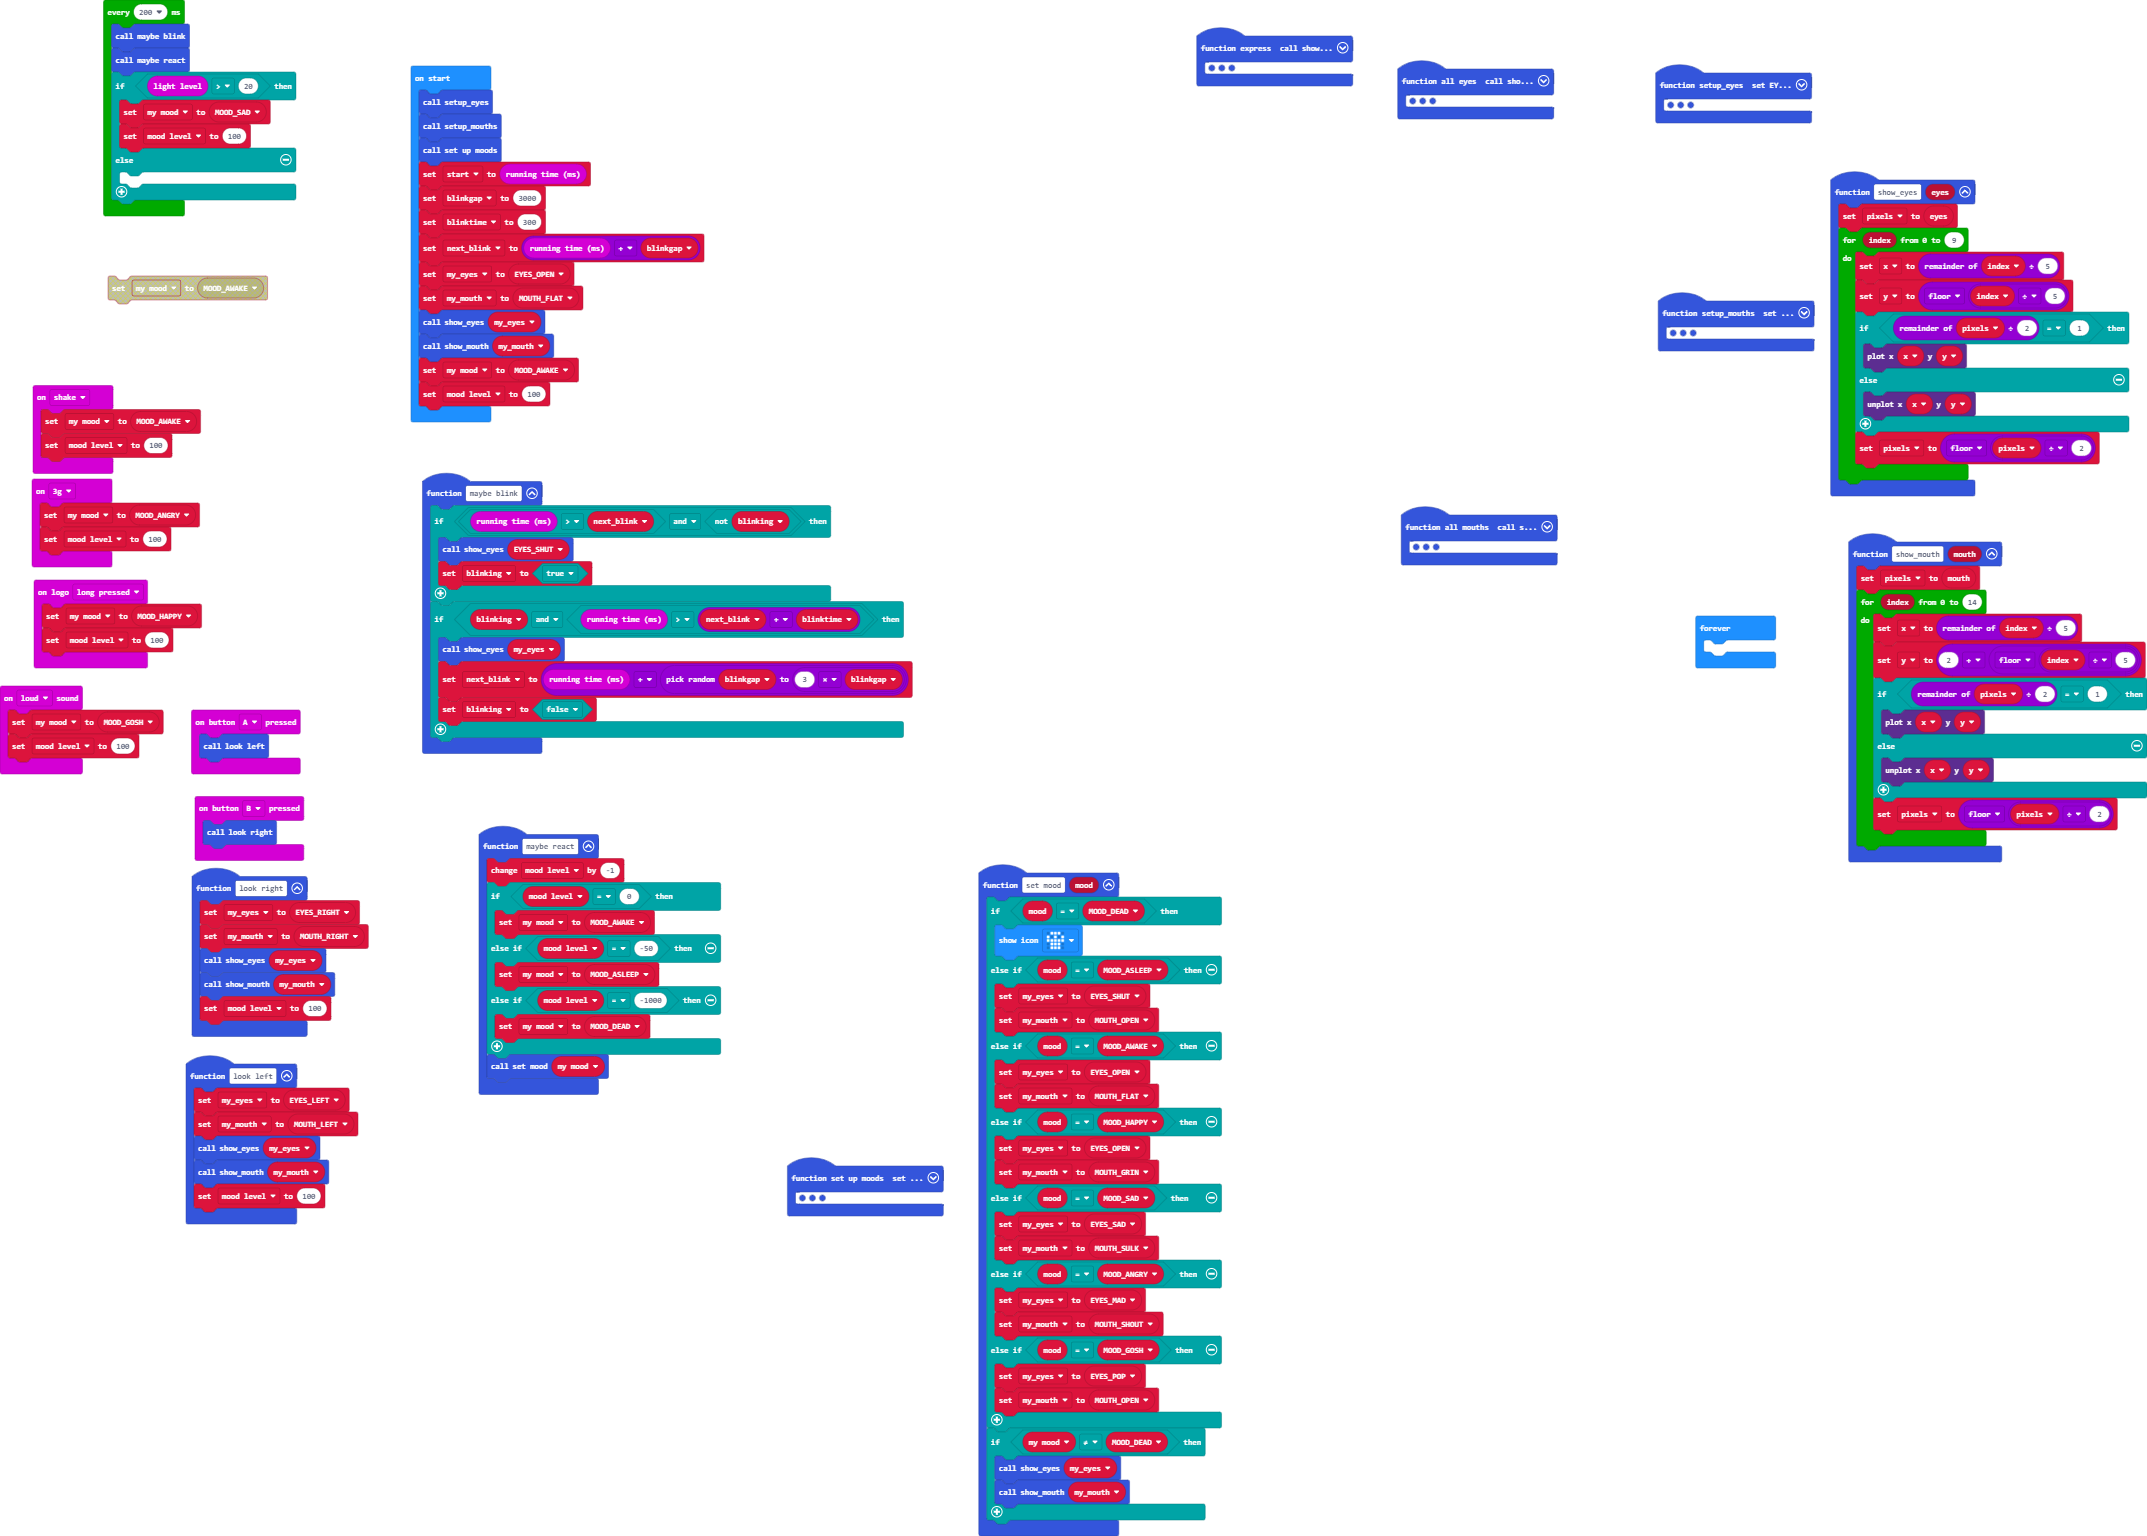
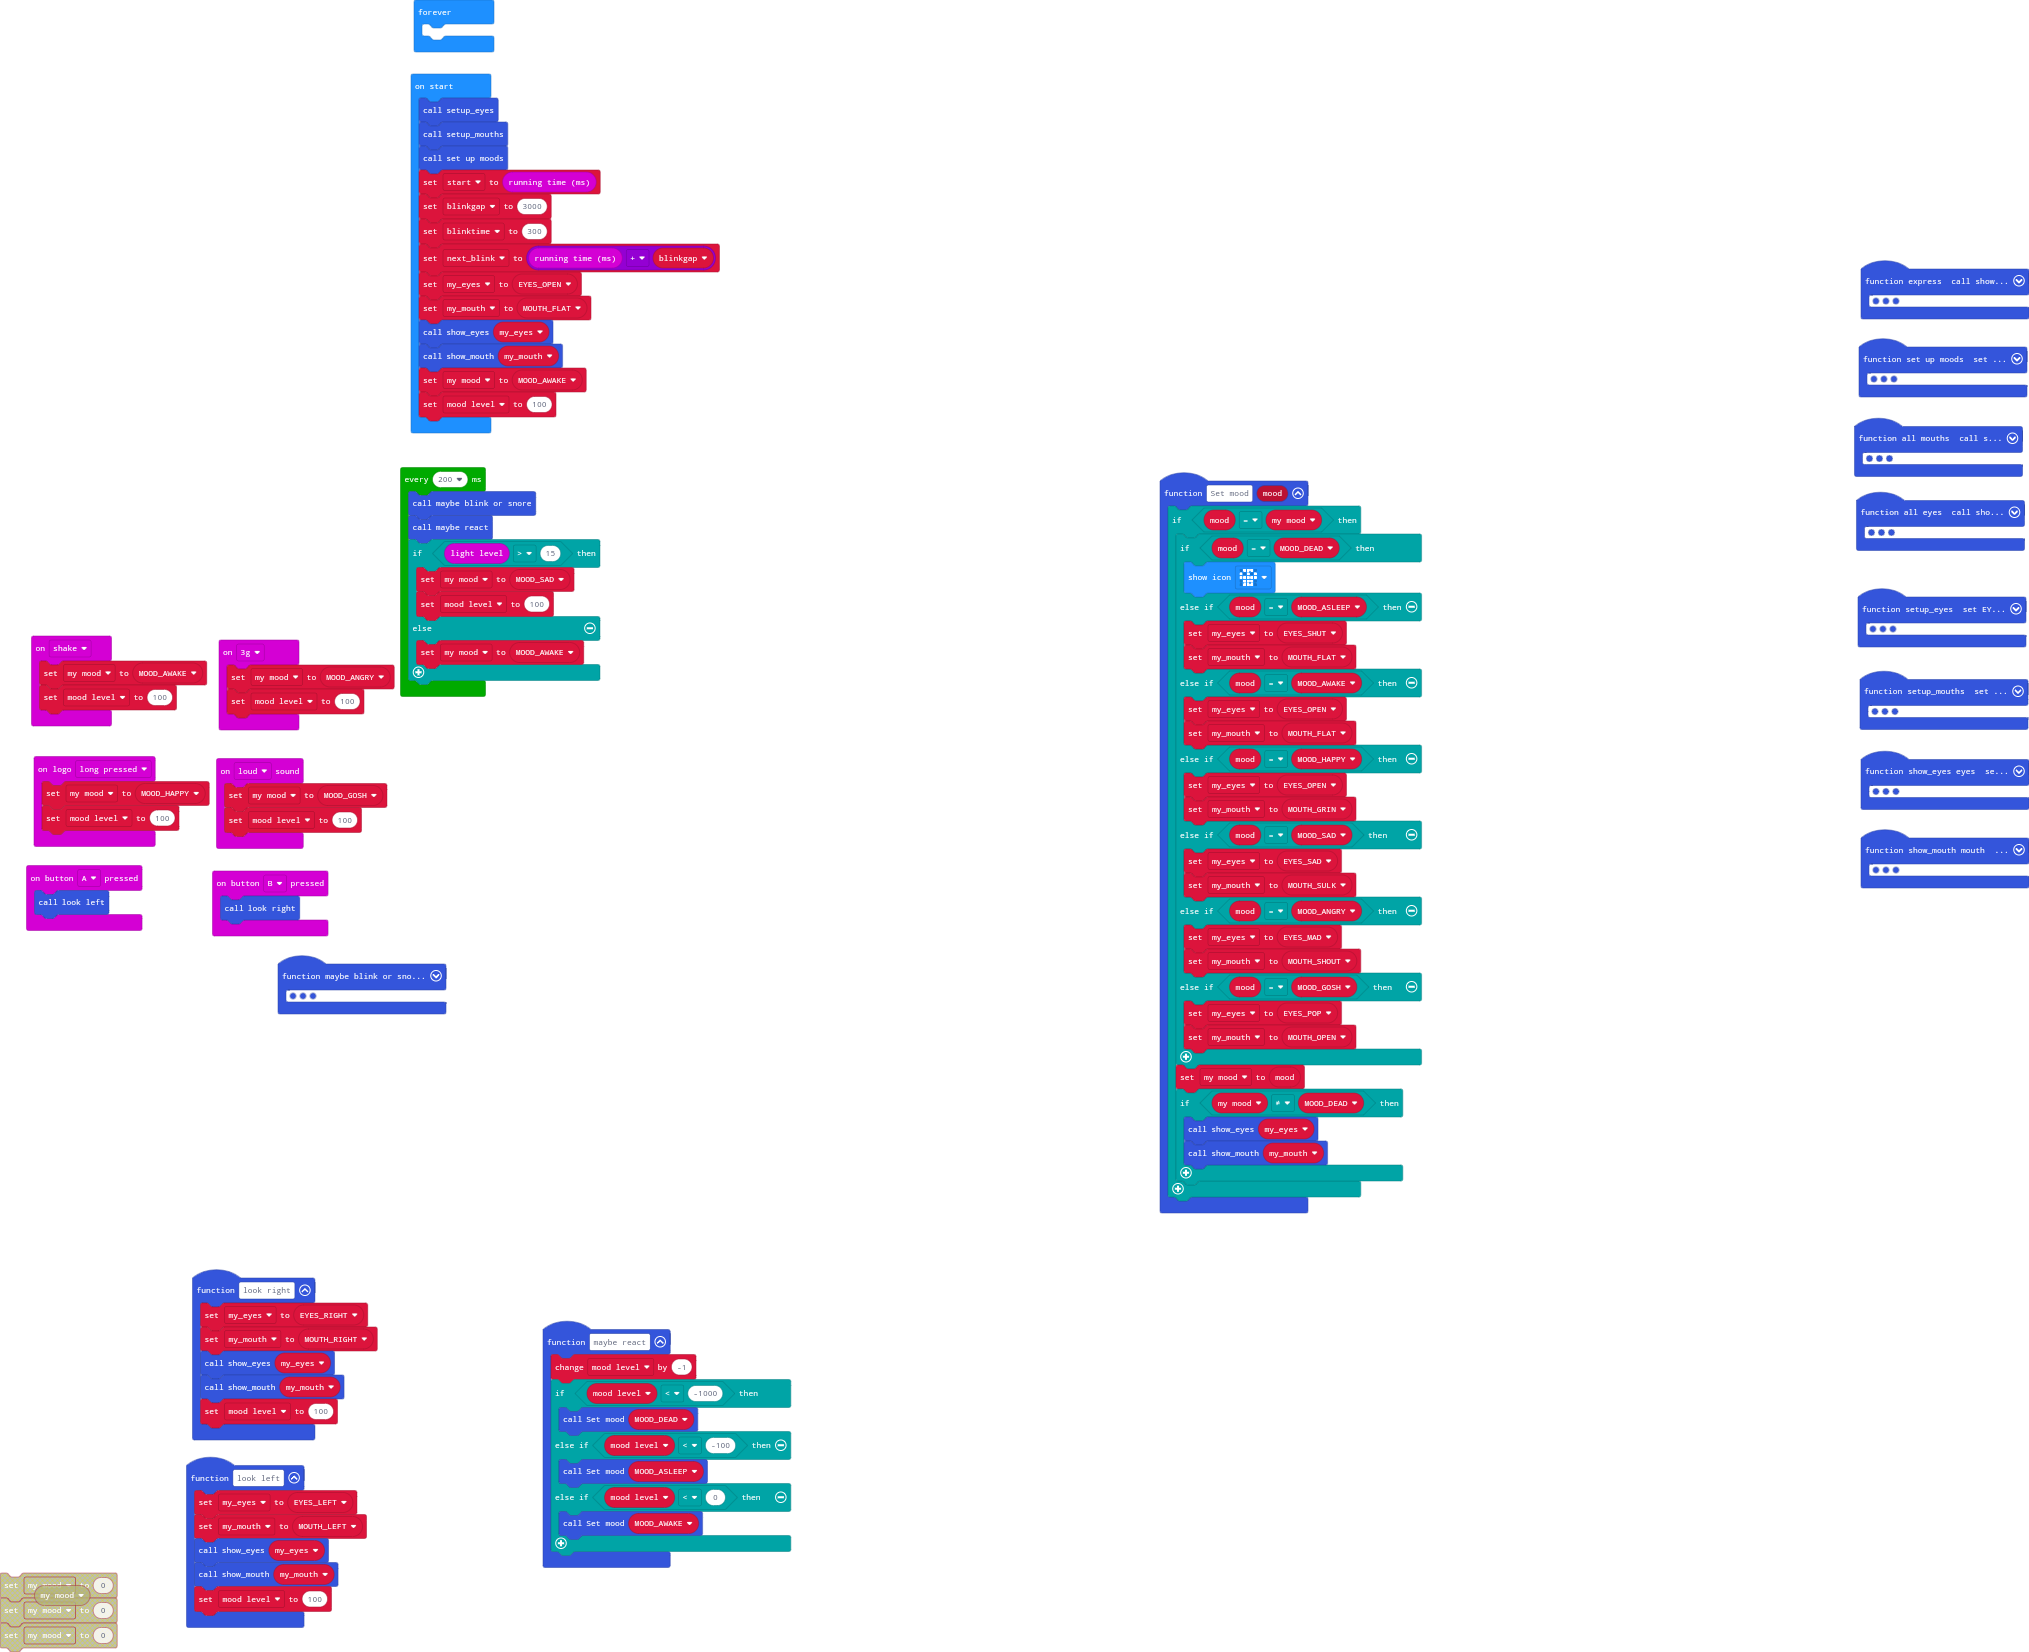
revised

diff --git a/main.ts b/main.ts
@@ -14,33 +14,6 @@ function look_left () {
     show_mouth(my_mouth)
     mood_level = 100
 }
-function set_mood (mood: number) {
-    if (mood == MOOD_DEAD) {
-        basic.showIcon(IconNames.Skull)
-    } else if (mood == MOOD_ASLEEP) {
-        my_eyes = EYES_SHUT
-        my_mouth = MOUTH_OPEN
-    } else if (mood == MOOD_AWAKE) {
-        my_eyes = EYES_OPEN
-        my_mouth = MOUTH_FLAT
-    } else if (mood == MOOD_HAPPY) {
-        my_eyes = EYES_OPEN
-        my_mouth = MOUTH_GRIN
-    } else if (mood == MOOD_SAD) {
-        my_eyes = EYES_SAD
-        my_mouth = MOUTH_SULK
-    } else if (mood == MOOD_ANGRY) {
-        my_eyes = EYES_MAD
-        my_mouth = MOUTH_SHOUT
-    } else if (mood == MOOD_GOSH) {
-        my_eyes = EYES_POP
-        my_mouth = MOUTH_OPEN
-    }
-    if (my_mood != MOOD_DEAD) {
-        show_eyes(my_eyes)
-        show_mouth(my_mouth)
-    }
-}
 function all_mouths () {
     show_eyes(EYES_OPEN)
     show_mouth(MOUTH_FLAT)
@@ -79,17 +52,6 @@ input.onLogoEvent(TouchButtonEvent.LongPressed, function () {
     my_mood = MOOD_HAPPY
     mood_level = 100
 })
-function maybe_blink () {
-    if (input.runningTime() > next_blink && !(blinking)) {
-        show_eyes(EYES_SHUT)
-        blinking = true
-    }
-    if (blinking && input.runningTime() > next_blink + blinktime) {
-        show_eyes(my_eyes)
-        next_blink = input.runningTime() + randint(blinkgap, 3 * blinkgap)
-        blinking = false
-    }
-}
 function look_right () {
     my_eyes = EYES_RIGHT
     my_mouth = MOUTH_RIGHT
@@ -120,6 +82,36 @@ function show_mouth (mouth: number) {
             led.unplot(x, y)
         }
         pixels = Math.floor(pixels / 2)
+    }
+}
+function Set_mood (mood: number) {
+    if (mood == my_mood) {
+        if (mood == MOOD_DEAD) {
+            basic.showIcon(IconNames.Skull)
+        } else if (mood == MOOD_ASLEEP) {
+            my_eyes = EYES_SHUT
+            my_mouth = MOUTH_FLAT
+        } else if (mood == MOOD_AWAKE) {
+            my_eyes = EYES_OPEN
+            my_mouth = MOUTH_FLAT
+        } else if (mood == MOOD_HAPPY) {
+            my_eyes = EYES_OPEN
+            my_mouth = MOUTH_GRIN
+        } else if (mood == MOOD_SAD) {
+            my_eyes = EYES_SAD
+            my_mouth = MOUTH_SULK
+        } else if (mood == MOOD_ANGRY) {
+            my_eyes = EYES_MAD
+            my_mouth = MOUTH_SHOUT
+        } else if (mood == MOOD_GOSH) {
+            my_eyes = EYES_POP
+            my_mouth = MOUTH_OPEN
+        }
+        my_mood = mood
+        if (my_mood != MOOD_DEAD) {
+            show_eyes(my_eyes)
+            show_mouth(my_mouth)
+        }
     }
 }
 input.onSound(DetectedSound.Loud, function () {
@@ -165,16 +157,34 @@ input.onGesture(Gesture.ThreeG, function () {
     my_mood = MOOD_ANGRY
     mood_level = 100
 })
+function maybe_blink_or_snore () {
+    if (input.runningTime() > next_blink && !(blinking)) {
+        if (my_mood == MOOD_ASLEEP) {
+            show_mouth(MOUTH_OPEN)
+        } else {
+            show_eyes(EYES_SHUT)
+        }
+        blinking = true
+    }
+    if (blinking && input.runningTime() > next_blink + blinktime) {
+        if (my_mood == MOOD_ASLEEP) {
+            show_mouth(my_mouth)
+        } else {
+            show_eyes(my_eyes)
+        }
+        next_blink = input.runningTime() + randint(blinkgap, 3 * blinkgap)
+        blinking = false
+    }
+}
 function maybe_react () {
     mood_level += -1
-    if (mood_level == 0) {
-        my_mood = MOOD_AWAKE
-    } else if (mood_level == -50) {
-        my_mood = MOOD_ASLEEP
-    } else if (mood_level == -1000) {
-        my_mood = MOOD_DEAD
+    if (mood_level < -1000) {
+        Set_mood(MOOD_DEAD)
+    } else if (mood_level < -100) {
+        Set_mood(MOOD_ASLEEP)
+    } else if (mood_level < 0) {
+        Set_mood(MOOD_AWAKE)
     }
-    set_mood(my_mood)
 }
 function express () {
     show_eyes(EYES_OPEN)
@@ -202,22 +212,22 @@ function express () {
     basic.pause(1000)
     basic.pause(1000)
 }
-let EYES_RIGHT = 0
 let blinking = false
+let EYES_SHUT = 0
+let EYES_SAD = 0
+let EYES_POP = 0
+let EYES_MAD = 0
+let EYES_RIGHT = 0
 let y = 0
 let x = 0
 let pixels = 0
+let MOUTH_SULK = 0
+let MOUTH_SHOUT = 0
 let MOUTH_RIGHT = 0
+let MOUTH_OPEN = 0
 let MOUTH_OK = 0
 let MOUTH_HMMM = 0
-let EYES_POP = 0
-let MOUTH_SHOUT = 0
-let EYES_MAD = 0
-let MOUTH_SULK = 0
-let EYES_SAD = 0
 let MOUTH_GRIN = 0
-let MOUTH_OPEN = 0
-let EYES_SHUT = 0
 let MOUTH_LEFT = 0
 let EYES_LEFT = 0
 let MOOD_GOSH = 0
@@ -253,12 +263,12 @@ basic.forever(function () {
 	
 })
 loops.everyInterval(200, function () {
-    maybe_blink()
+    maybe_blink_or_snore()
     maybe_react()
-    if (input.lightLevel() > 20) {
+    if (input.lightLevel() > 15) {
         my_mood = MOOD_SAD
         mood_level = 100
     } else {
-    	
+        my_mood = MOOD_AWAKE
     }
 })
